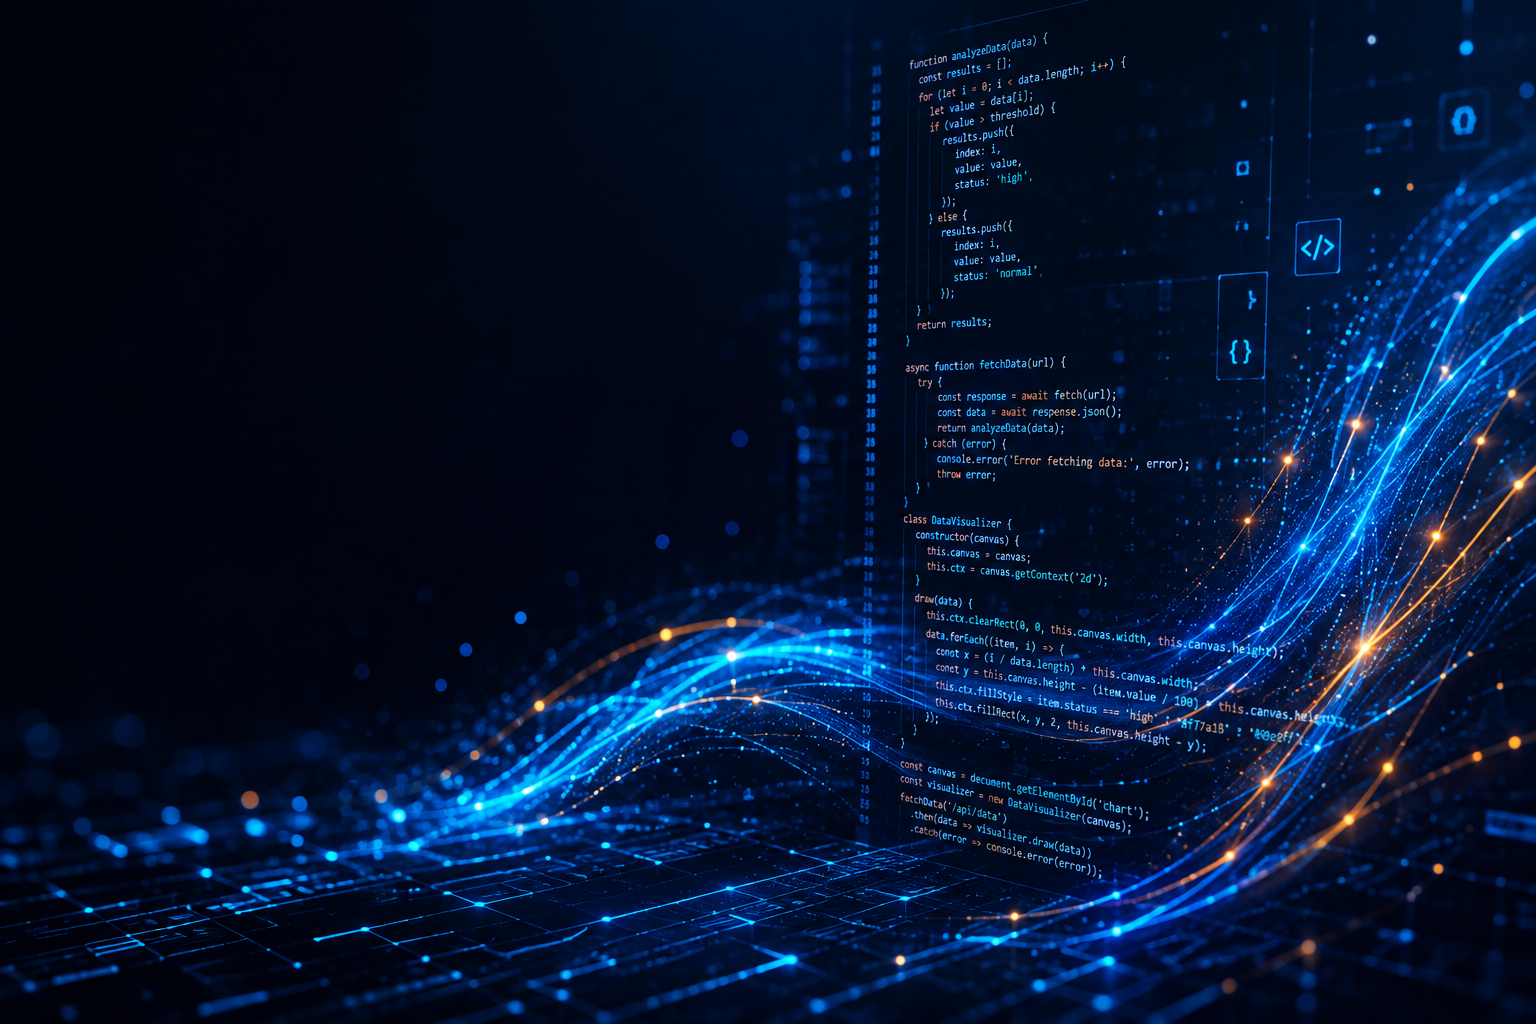
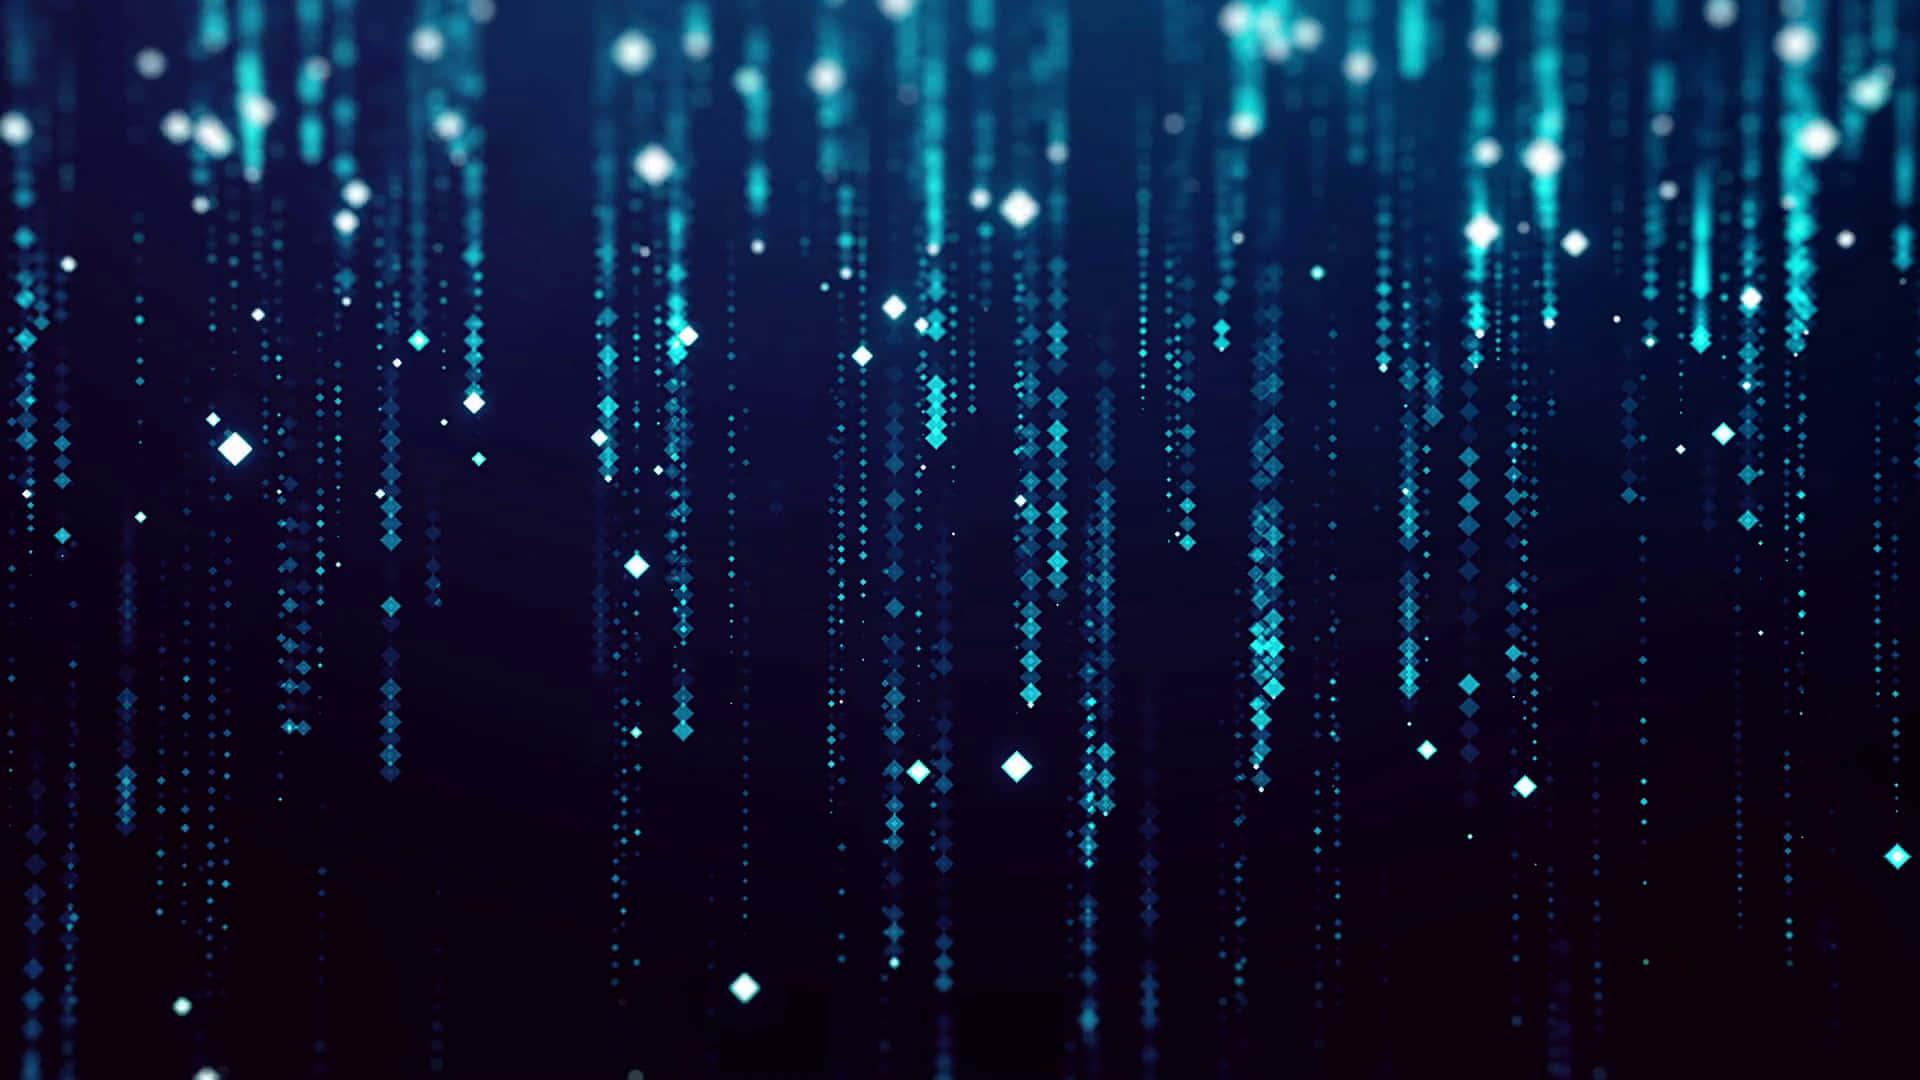
commit all updated image changes

diff --git a/src/components/Sections/Certifications.tsx b/src/components/Sections/Certifications.tsx
@@ -19,7 +19,7 @@ const Certifications: FC = memo(() => {
       <img
         alt="Certifications background"
         className="absolute inset-0 -z-10 h-full w-full object-cover"
-        src="/images/certifications/header-background.webp"
+        src="/certificates/bg.png"
       />
 
       {/* Dark Overlay */}

diff --git a/src/data/data.tsx b/src/data/data.tsx
@@ -22,7 +22,7 @@ import {
   TimelineItem,
 } from './dataDef';
 
-const heroImage = '/images/certifications/header-background.webp';
+const heroImage = '/images/about.png';
 
 /**
  * Page meta data
